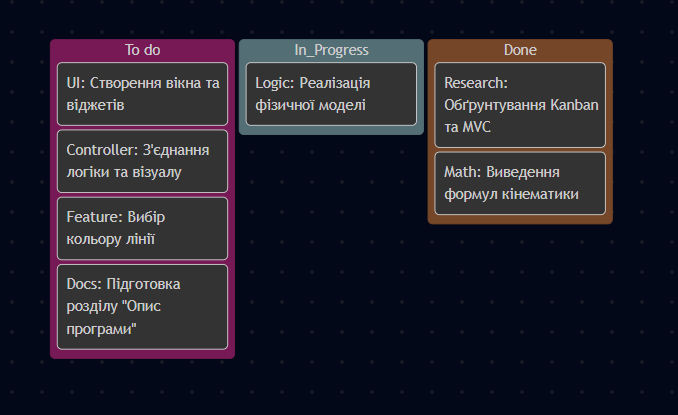
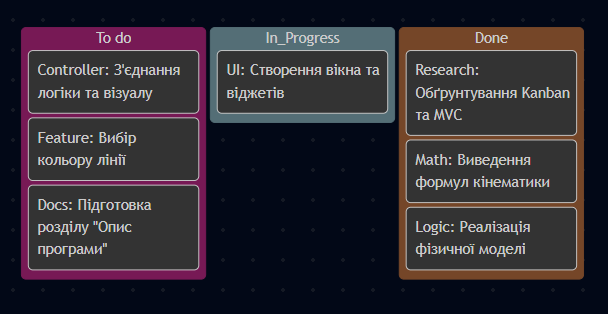
Logic: Реалізація фізичної моделі

diff --git a/project/physics.py b/project/physics.py
@@ -1,0 +1,23 @@
+import numpy as np
+
+
+class PhysicalBody:
+    def __init__(self, x0, y0, v0, a, angle_deg):
+        self.x0 = x0
+        self.y0 = y0
+
+        rad = np.radians(angle_deg)
+
+        self.vx = v0 * np.cos(rad)
+        self.vy = v0 * np.sin(rad)
+
+        self.ax = a * np.cos(rad)
+        self.ay = a * np.sin(rad)
+
+    def calculate(self, t_end=10, points=200):
+        t = np.linspace(0, t_end, points)
+
+        x = self.x0 + self.vx * t + 0.5 * self.ax * t ** 2
+        y = self.y0 + self.vy * t + 0.5 * self.ay * t ** 2
+
+        return x, y
